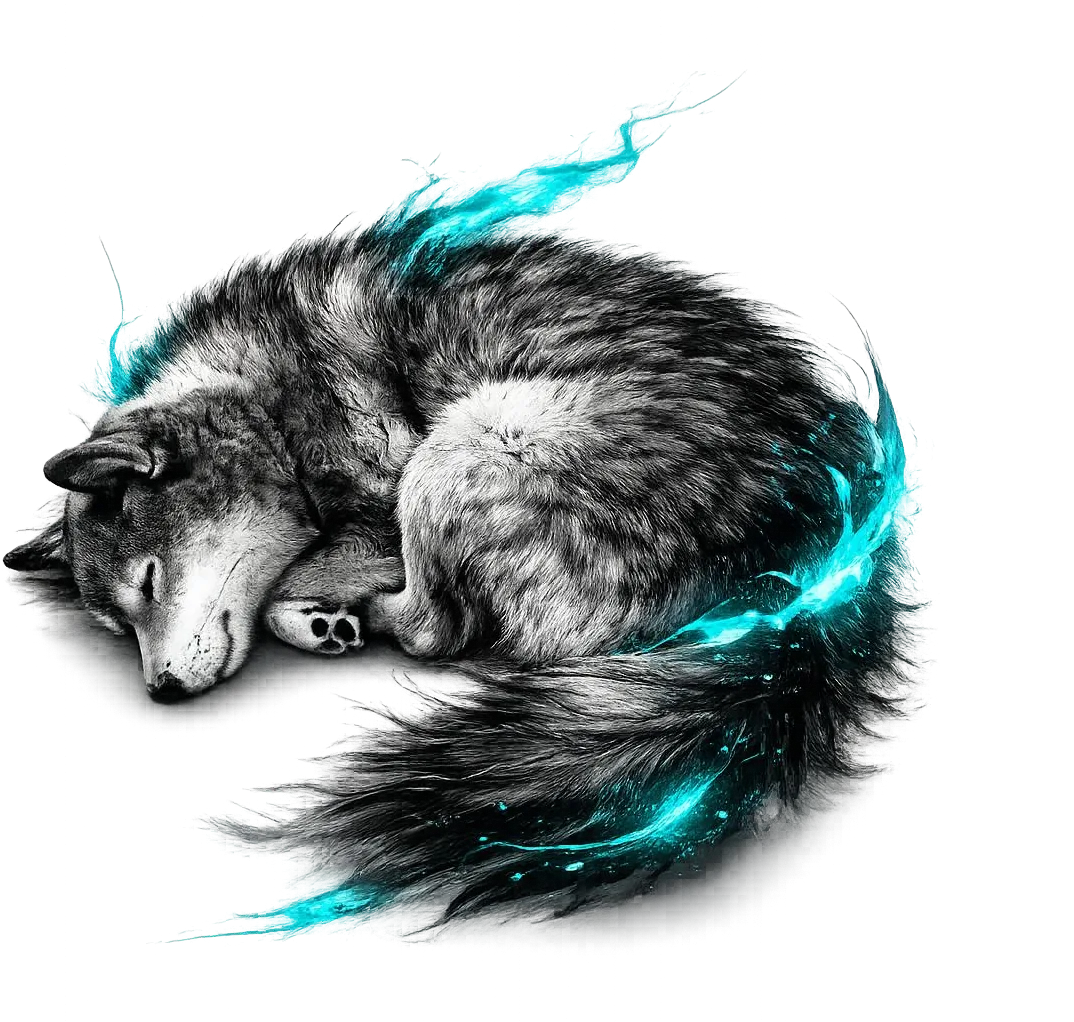
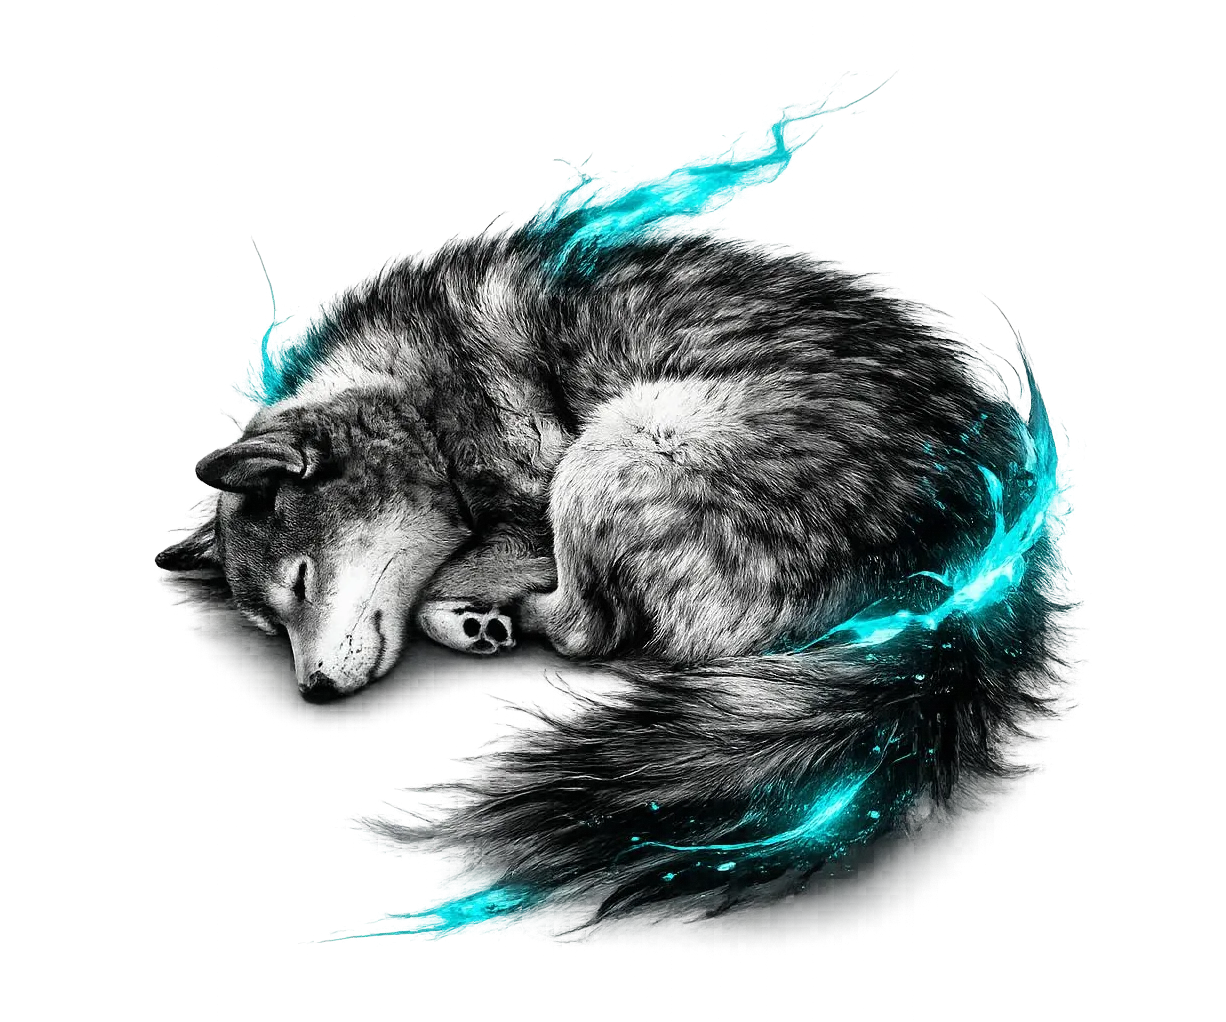
À propos : loup recentré sur mobile et tablette
Claude-Session: https://claude.ai/code/session_01THwdntjNiSuDEHoKbgxniL

diff --git a/index.html b/index.html
@@ -235,7 +235,7 @@
       </div>
       <figure class="about__wolf">
         <picture>
-          <source media="(max-width: 1023px)" srcset="assets/img/loup-entier.webp" width="1074" height="1022">
+          <source media="(max-width: 1023px)" srcset="assets/img/loup-entier.webp" width="1226" height="1022">
           <img src="assets/img/loup.webp" alt="" width="856" height="936" loading="lazy">
         </picture>
       </figure>
